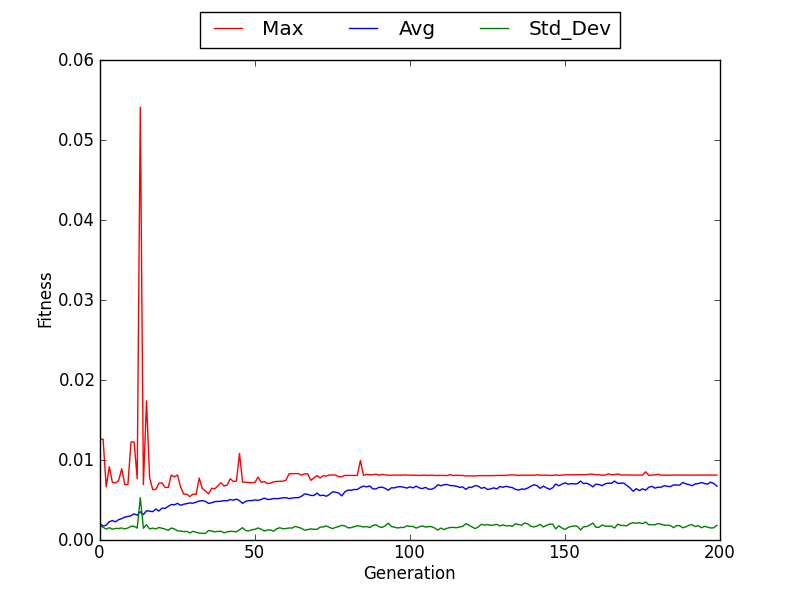
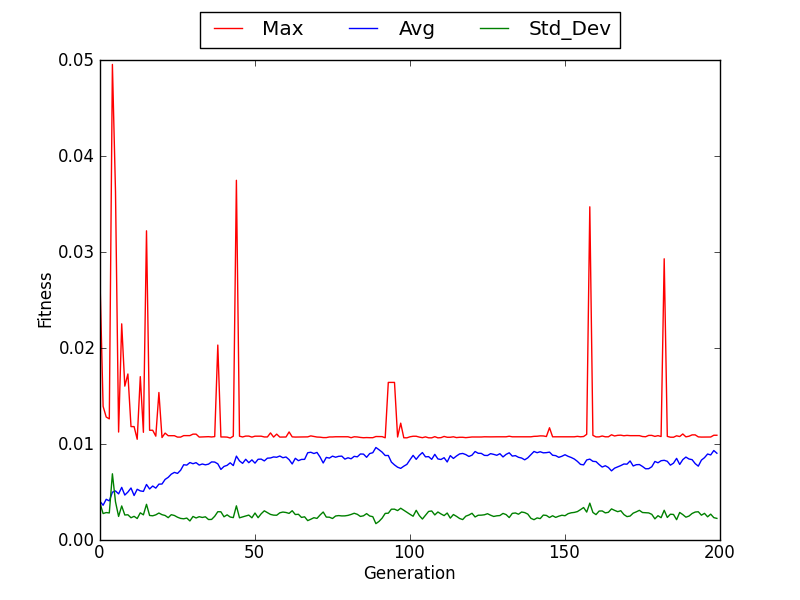
Update

Changed region(s): [[0.0625, 0.12, 0.9062, 0.9], [0.0938, 0.09, 0.125, 0.12]]

diff --git a/project2/code/izhikevich.py b/project2/code/izhikevich.py
@@ -20,17 +20,20 @@ param_range = {
     'k': [0.01, 1.0]
 }
 
-# REWRITE :D
-def _read_spike_files():
-    """Read the spike files and return a dict with spikes data."""
-    def spike(path):
+def get_target_data():
+
+    def read_file(path):
         with open(path, 'r') as f:
             return [float(i) for i in f.readline().strip().split(' ')]
-    return [spike('data/izzy-train1.dat'), spike('data/izzy-train2.dat'), 
-            spike('data/izzy-train3.dat'), spike('data/izzy-train4.dat')]
 
 
-#REWRITE
+    return [
+        read_file('data/izzy-train1.dat'), 
+        read_file('data/izzy-train2.dat'), 
+        read_file('data/izzy-train3.dat'), 
+        read_file('data/izzy-train4.dat')
+        ]
+
 
 class SpikingNeuron(Indevidual):
 
@@ -202,10 +205,12 @@ class SDM(object):
 
         # Implement A Spike-Count Difference Penalty
         if penalty:
-            #tmp += SDM.difference_penalty(spikes1, spikes2, train1)
-            tmp += (abs(len(spikes2) - len(spikes1)) * len(train1)) / (2*N)
+            tmp += SDM.difference_penalty(spikes1, spikes2, train1)
 
         distance = math.sqrt(tmp) / N
+        #print distance
+        #print "Target: %s \n Spikes1: %s " % (spikes2, spikes1)
+        # print "Target Train (%s): %s \n Train1 (%s): %s " % (len(train2), train2, len(train1), train1)
         return 1.0/distance
 
 
@@ -222,6 +227,10 @@ class SDM(object):
         spikes1, spikes2 = SDM.compute_spike_times(train1), SDM.compute_spike_times(train2)
 
         N = min(len(spikes1), len(spikes2))
+
+
+        if N < 2:
+            return 0
 
         tmp = sum(pow(abs((spikes2[i] - spikes2[i-1]) - (spikes1[i] - spikes1[i-1])), p) for i in range(1, N))
 
@@ -264,9 +273,12 @@ class SpikeMutation(Mutation):
      def do(self, g1): # REWRITE!!!
         """Randomly mutate a gene in the genotype."""
         s = random.randint(0, std_values['num_params']-1) * g1.gene_size
+        #print "Mutation s %s" % s
 
         binary_helper = '{:0'+str(g1.gene_size)+'b}'
         new_gene = binary_helper.format(random.randint(0, g1.max_value))
+
+        #print "New Gene %s " % new_gene
         g1.value = (g1.value[:s] + new_gene + g1.value[s+g1.gene_size:])
 
 
@@ -323,18 +335,18 @@ class SpikingNeuronPlotter(Plotter):
 std_values = {
     'output_file': 'spiking',
     'do_plot': True,
-    'pop_size':  100,
-    'mutation_probability': 0.2,
+    'pop_size':  200,
+    'mutation_probability': 0.3,
     'birth_probability': 1.0,
-    'gene_size': 5, # The bit size for each gene (parameter)
+    'gene_size': 7, # The bit size for each gene (parameter)
     'generations': 200,
     'protocol': 'FullReplacement',
     'mechanism': 'Tournament',
     'reproduction': 'BinaryOnePointCrossover',
     'elitism': 0.04,
     'truncation': 0.05,
-    'tau': 10,
-    'I': 10,
+    'tau': 10.0,
+    'I': 10.0,
     'timesteps': 1000,
     'spike_threshold': 35, # mV (milli Volts)
     'num_params': 5, # The number of parameters: a, b, c, d, k
@@ -468,13 +480,13 @@ if __name__ == "__main__":
 
 
     args = parser.parse_args()
-    output_size = args.pop_size - int(args.pop_size * 0.1)
+    output_size = args.pop_size # - int(args.pop_size * 0.05)
 
     print args
 
 
-    target_spikes = _read_spike_files()
-    target = target_spikes[0];
+    target_spikes = get_target_data()
+    target = target_spikes[1];
 
     create_objects = create_data(args.gene_size, args.metric_fn, target)
     population = Population(args.pop_size, create_objects)

diff --git a/project2/code/lib/EA.py b/project2/code/lib/EA.py
@@ -51,15 +51,19 @@ class EA:
         if self.reproduction is None:
             return
 
-        parents = self.population.parents
-        for i in range(0, len(parents)-1, 2):
-            child1, child2 = parents[i], parents[i+1]
+        parents = self.population.parents[:]
+        for i in range(0, len(parents)-1):
+            if i % 2 == 1:
+                child1, child2 = parents[i-1], parents[i]
 
-            if self.reproduction.birth_probability > random.random():
-                child1, child2 = self.reproduction.do(child1, child2)
+                if self.reproduction.birth_probability > random.random():
+                    # print "Parents: \n %s \n %s" % (child1.value, child2.value)
+                    child1, child2 = self.reproduction.do(child1, child2)
+                    # print "Kids: \n %s \n %s" % (child1.value, child2.value)
 
-            self.population.children.append(copy.deepcopy(child1))
-            self.population.children.append(copy.deepcopy(child2))
+
+                self.population.children.append(copy.deepcopy(child1))
+                self.population.children.append(copy.deepcopy(child2))
 
 
     def mutate(self):
@@ -96,7 +100,12 @@ class EA:
 
                 if fitness is None:
                     fitness = 0
-                print "Value %s, fitness: %s" % (item.value, fitness)
+
+                # Collect all denary values from genotype, categorized by 5 bits interval
+                params = [int(item.value[i:i+item.gene_size], 2) for i in range(0, len(item.value), item.gene_size)]
+                # Need to encode values to fit to given ranges/intervals
+                a, b, c, d, k = item.fit_range (params)
+                print "Value %s, %s, %s, %s, %s, fitness: %s" % (a, b, c, d, k, fitness)
 
             # Adult selection
             self.adult_select()

diff --git a/project2/code/lib/Reproduction.py b/project2/code/lib/Reproduction.py
@@ -23,13 +23,14 @@ class BinaryUniformCrossover(Reproduction):
         """
         child1 = []
         child2 = []
-        for i in range(len(g1.value)):
+
+        for i in range(0, len(g1.value), g1.gene_size):
             if random.random() > self.probability:
-                child1.append(g1.value[i])
-                child2.append(g2.value[i])
+                child1.append(g1.value[i:i+g1.gene_size])
+                child2.append(g2.value[i:i+g1.gene_size])
             else:
-                child1.append(g2.value[i])
-                child2.append(g1.value[i])
+                child1.append(g2.value[i:i+g1.gene_size])
+                child2.append(g1.value[i:i+g1.gene_size])
 
         
         return g1.create_child(''.join(child1)), g2.create_child(''.join(child2))
@@ -48,7 +49,8 @@ class BinaryOnePointCrossover(Reproduction):
         """
         split_in = self.split
         if split_in is None:
-            split_in = random.randint(1, len(g1.value)-1)           
+            # split_in = random.randint(1, len(g1.value)-1)     
+            split_in = random.randint(0, 5-1) * g1.gene_size      
         
         child1 = g1.create_child(g1.value[:split_in] + g2.value[split_in:])
         child2 = g2.create_child(g2.value[:split_in] + g1.value[split_in:])
@@ -68,10 +70,10 @@ class BinaryTwoPointCrossover(Reproduction):
         """
         split_in1, split_in2 = self.split1, self.split2
         if split_in1 is None:
-            split_in1 = random.randint(1, len(g1.value)-1)
+            split_in1 = random.randint(0, 5-1) * g1.gene_size 
         
         if split_in2 is None:
-            split_in2 = random.randint(1, len(g2.value)-1)
+            split_in2 = random.randint(0, 5-1) * g1.gene_size 
         
         if split_in1 > split_in2:
             # Switch up

diff --git a/project2/code/lib/Selection.py b/project2/code/lib/Selection.py
@@ -132,14 +132,14 @@ class Tournament(SelectionMechanism):
     def probability_func (self, fitness):
         pass
 
-    def do(self, k=2, e=0.7):
+    def do(self, k=2, e=0.8):
         tmp_population = self.population.adults[:]
 
         new_population = []
         while (len(new_population) < min([self.size, len(tmp_population)])):
             adults = random.sample(tmp_population, k)
             adults.sort(key=attrgetter('fitness_value'), reverse=True)
-            new_population.append(adults[int(random.random() > e)])
+            new_population.append(copy.deepcopy(adults[int(random.random() > e)]))
         
         self.population.parents = new_population[:]
         return self.population.parents
